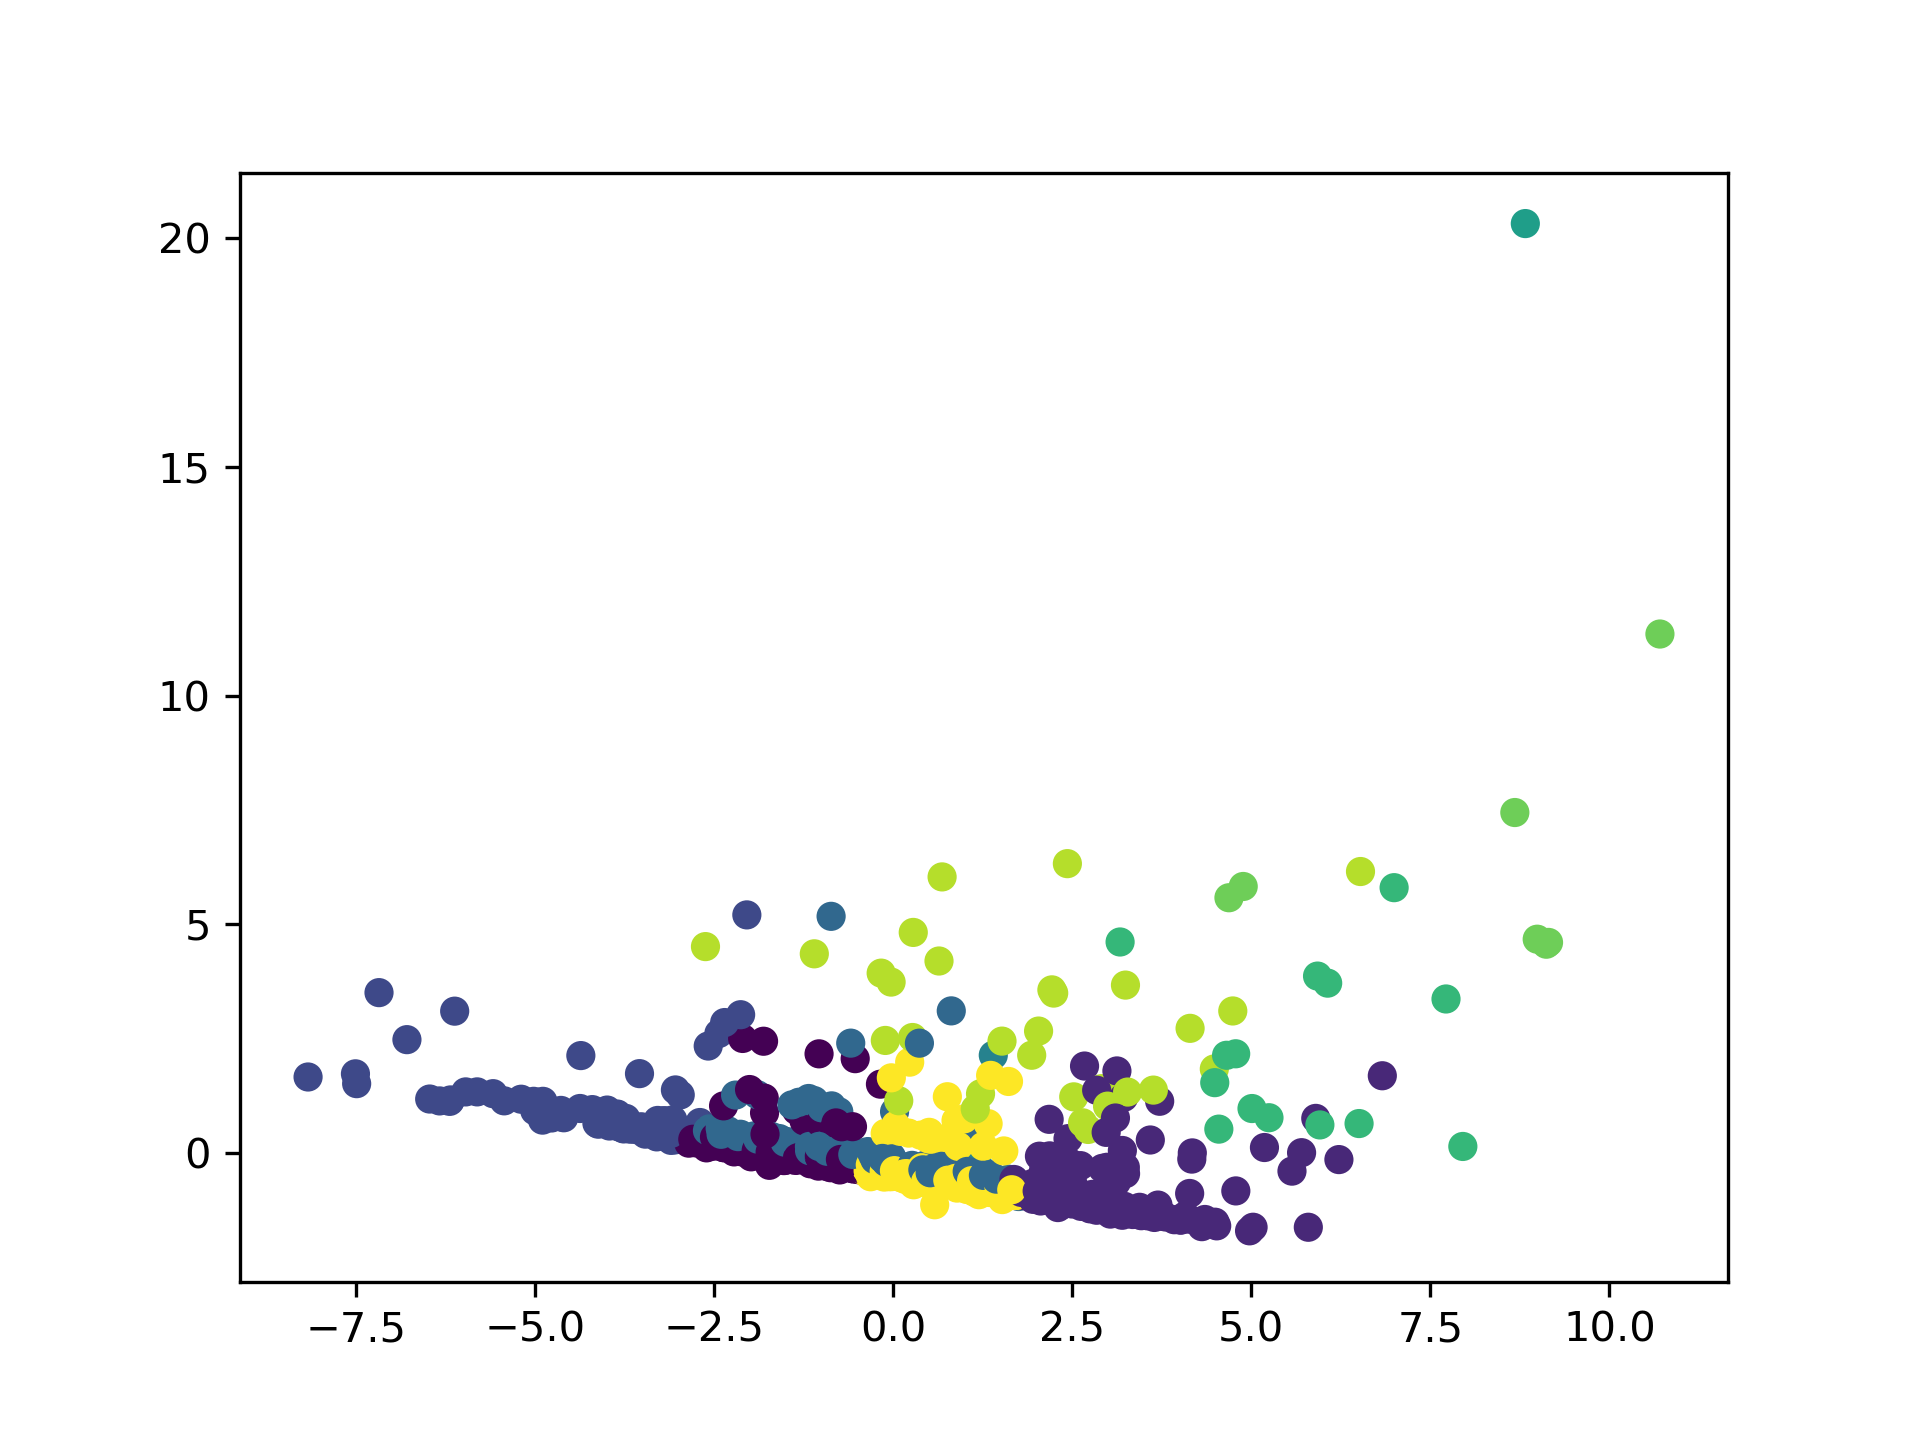
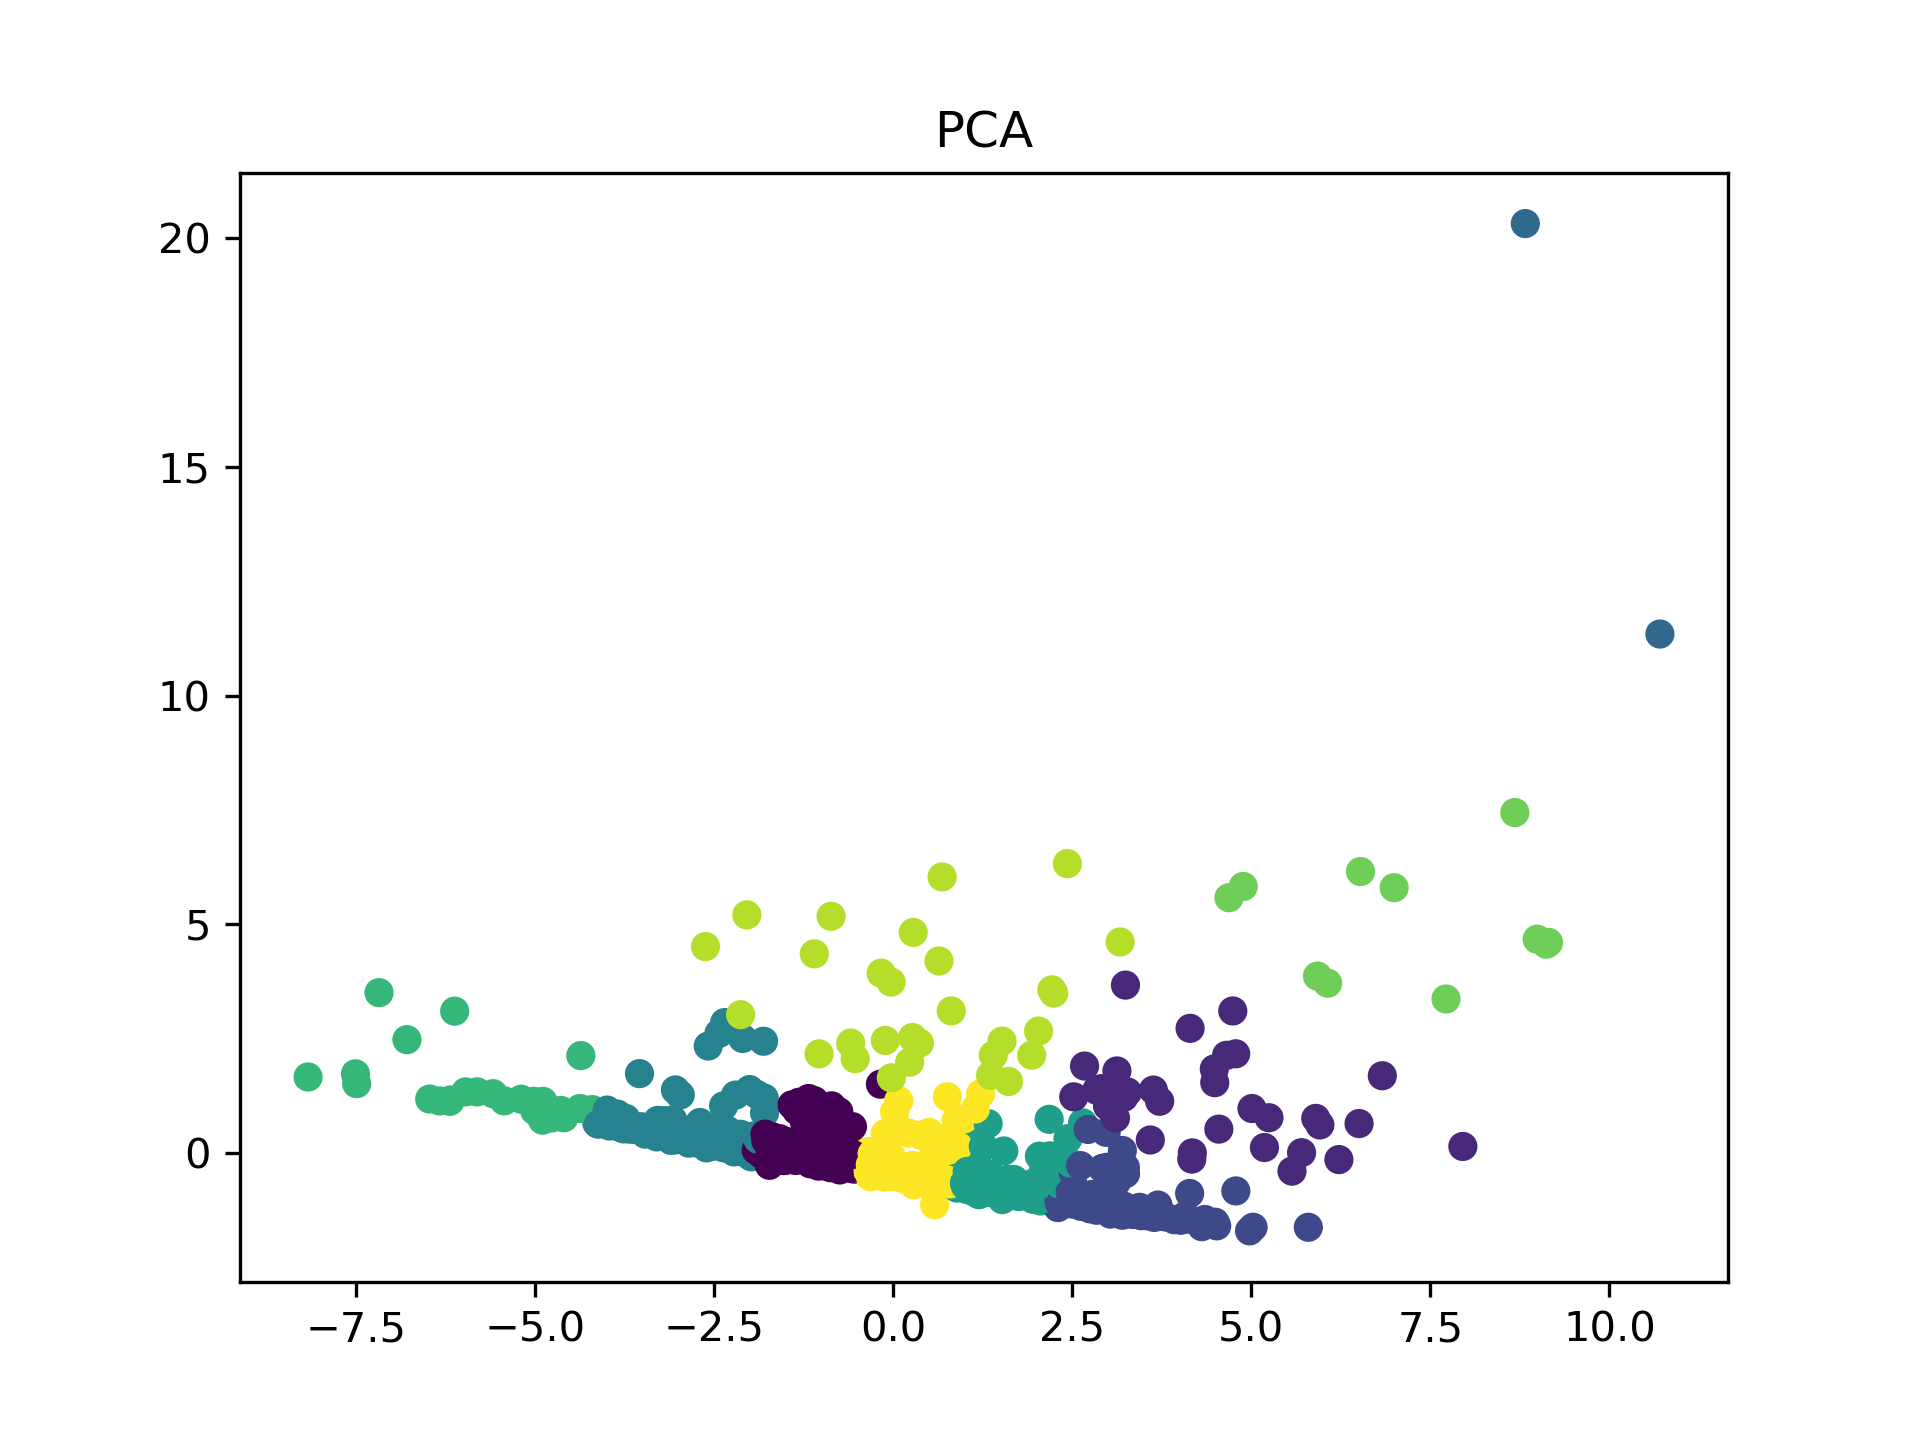
generate new cluster image

diff --git a/embeddings/generateEmbeddings-change.py b/embeddings/generateEmbeddings-change.py
@@ -23,7 +23,7 @@ import matplotlib.pyplot as plt
 
 
 # specify whether to use PCA (pca), TSNE (tsne), or MDS (mds)
-mode = "pca"
+mode = "tsne"
 
 # set the seed so results are reproducible
 sd = np.random.randint(0,9999999)
@@ -85,7 +85,7 @@ def main():
     k_means_tuning.fit(results)
     y_pred = k_means_tuning.predict(results)
     plt.scatter(results[:,0], results[:,1], c=y_pred)
-    plt.savefig(mode + '-std-cluster-original-add_attribute.png', dpi=300)
+    plt.savefig(mode + '-std-cluster-project-add_attribute.png', dpi=300)
     plt.axis('off')
     plt.show()
 
@@ -95,7 +95,7 @@ def main():
     k_means_tuning.fit(x_data_std)
     y_pred = k_means_tuning.predict(x_data_std)
     plt.scatter(results[:,0], results[:,1], c=y_pred)
-    plt.savefig(mode + '-std-cluster-project-add_attribute.png', dpi=300)
+    plt.savefig(mode + '-std-cluster-original-add_attribute.png', dpi=300)
     plt.axis('off')
     plt.show()
 
